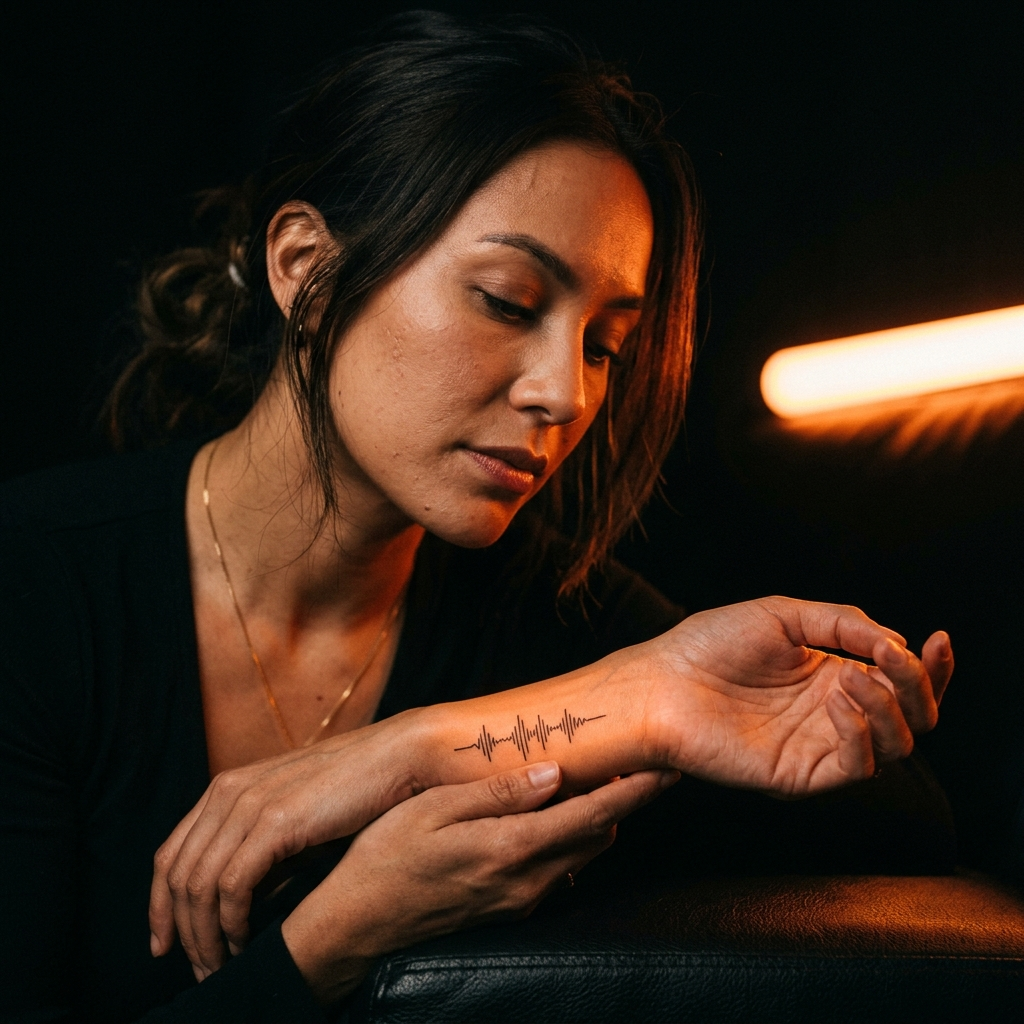
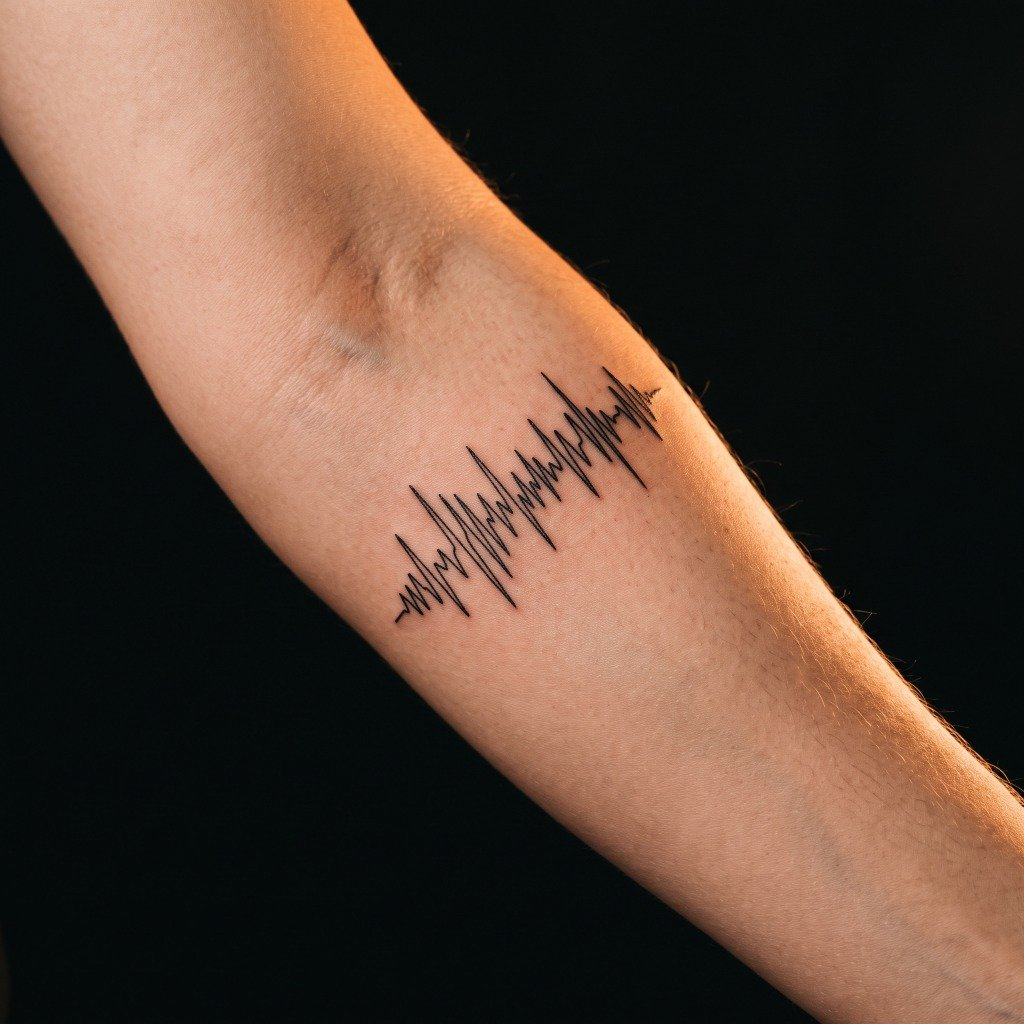
perf: integrate high-quality user AI images optimized with WebP compression for ultra-fast page load

diff --git a/public/index.html b/public/index.html
@@ -67,7 +67,10 @@
 
                 <!-- Hero Right Media Card -->
                 <div class="hero-media-card">
-                    <img src="assets/hero-tattoo.jpg" alt="Sound Tattoo Visual Motif" class="hero-img">
+                    <picture>
+                        <source srcset="assets/hero-tattoo.webp" type="image/webp">
+                        <img src="assets/hero-tattoo.jpg" alt="Sound Tattoo Visual Motif" class="hero-img" loading="eager" width="1024" height="1024">
+                    </picture>
                     <div class="hero-img-overlay">
                         <div class="hero-badge-floating">
                             <svg width="16" height="16" viewBox="0 0 24 24" fill="#ff6b00"><polygon points="5 3 19 12 5 21 5 3"/></svg>
@@ -138,7 +141,10 @@
             <div class="card">
                 <div class="emotional-showcase-grid">
                     <div class="emotional-img-wrap">
-                        <img src="assets/sound-moments.jpg" alt="Preserve Voice Memories" class="emotional-img">
+                        <picture>
+                            <source srcset="assets/sound-moments.webp" type="image/webp">
+                            <img src="assets/sound-moments.jpg" alt="Preserve Voice Memories" class="emotional-img" loading="lazy" width="1024" height="1024">
+                        </picture>
                     </div>
                     <div class="emotional-text-wrap">
                         <div style="font-size:12px; font-weight:700; color:var(--primary); letter-spacing:1px; text-transform:uppercase; margin-bottom:6px;">EMOTIONAL MEMORIES FOR LIFE</div>
@@ -147,9 +153,9 @@
                             Audio passes, but sound tattoos stay forever. From the innocent laughter of your children growing up to the comforting voice of loved ones, Vocara turns sound into living art you can carry and play anytime.
                         </p>
                         <div class="memory-tag-list">
-                            <span class="memory-tag">👶 Child's First Words</span>
-                            <span class="memory-tag">🕊 Departed Loved Ones</span>
-                            <span class="memory-tag">💍 Wedding Vows</span>
+                            <span class="memory-tag">Child's First Words</span>
+                            <span class="memory-tag">Departed Loved Ones</span>
+                            <span class="memory-tag">Wedding Vows</span>
                         </div>
                     </div>
                 </div>
